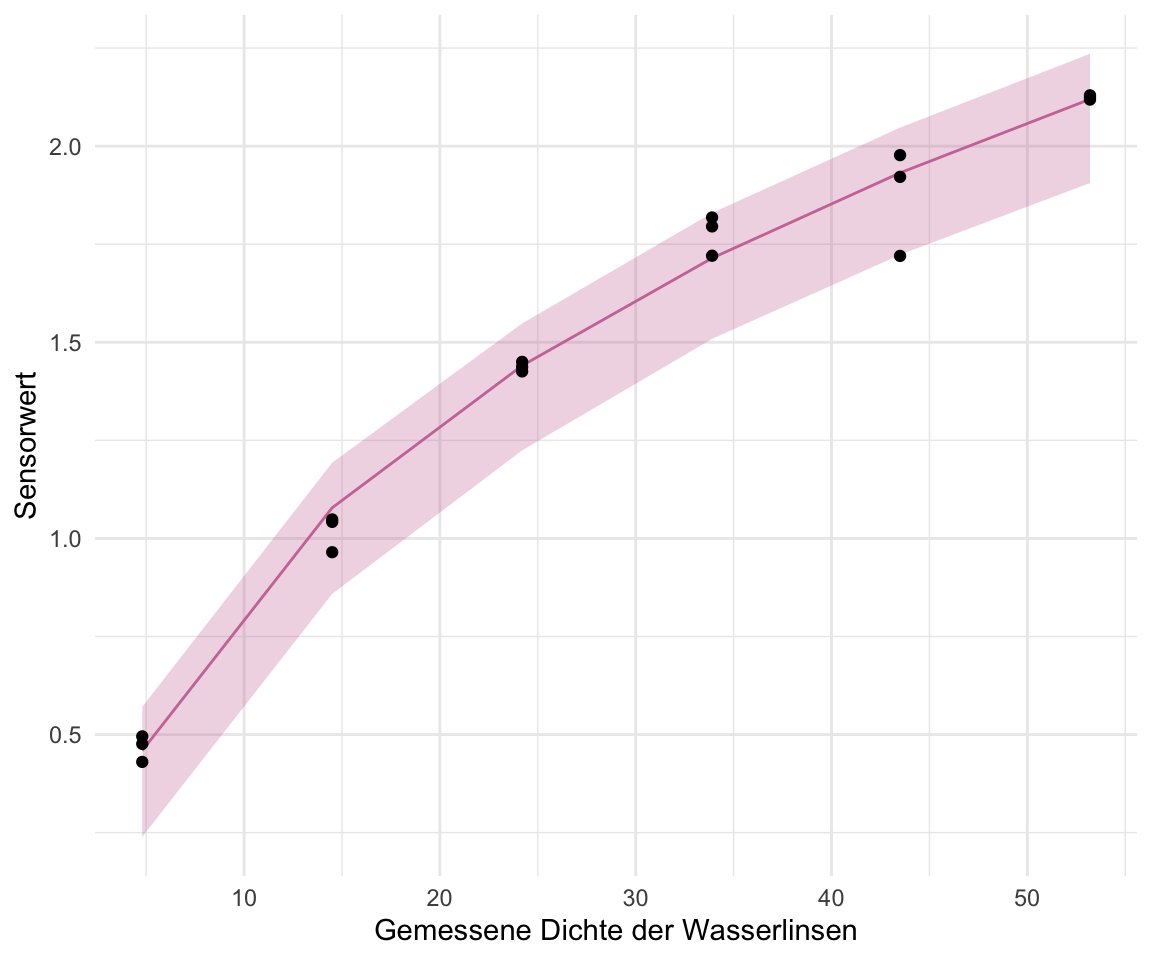
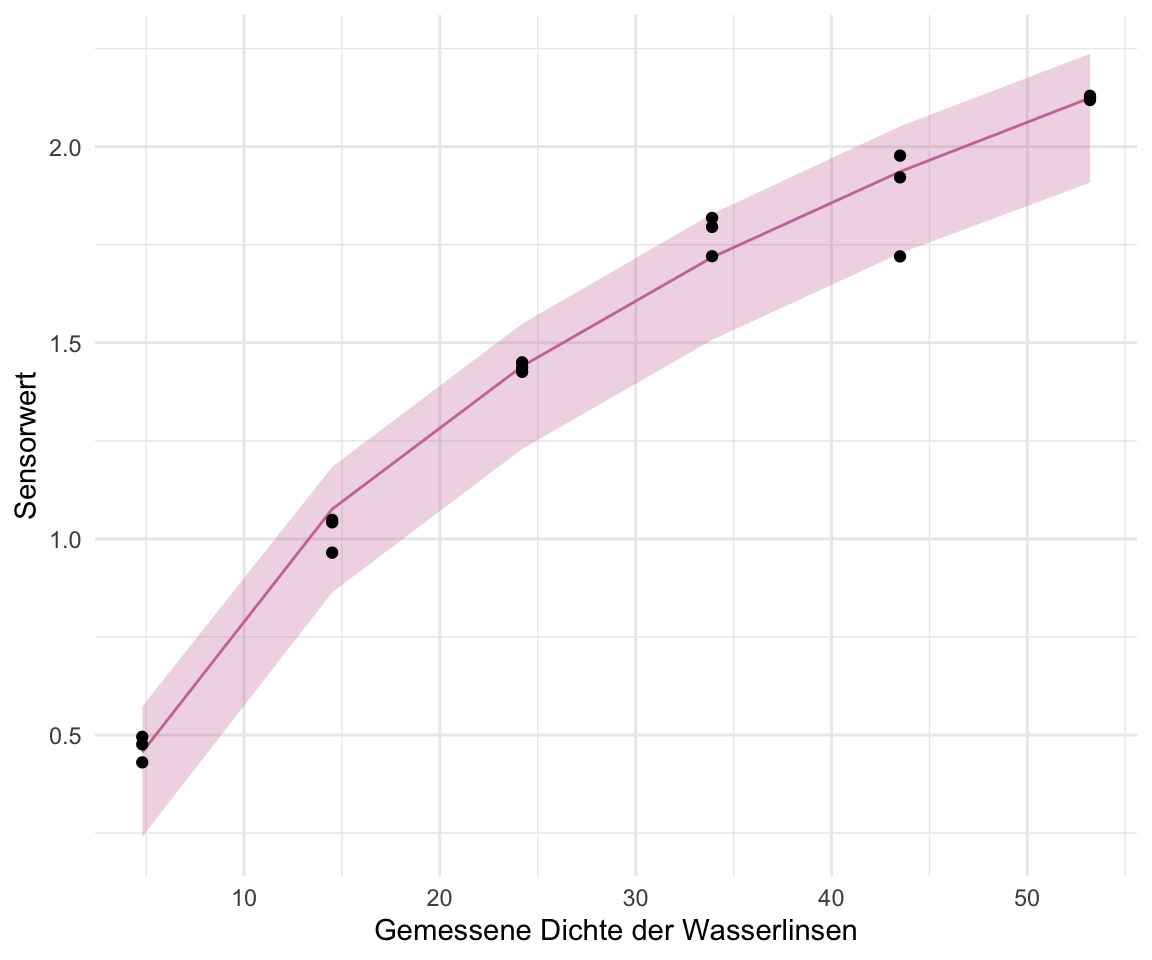
reworked literature

diff --git a/docs/literature.html b/docs/literature.html
@@ -688,14 +688,14 @@ div.csl-indent {
     <h2 id="toc-title">Inhaltsverzeichnis</h2>
    
   <ul>
-  <li><a href="#parametrische-statistik" id="toc-parametrische-statistik" class="nav-link active" data-scroll-target="#parametrische-statistik"><span class="header-section-number">2.1</span> Parametrische Statistik</a></li>
-  <li><a href="#experimental-methods-in-agriculture" id="toc-experimental-methods-in-agriculture" class="nav-link" data-scroll-target="#experimental-methods-in-agriculture"><span class="header-section-number">2.2</span> Experimental methods in agriculture</a></li>
-  <li><a href="#r-for-data-science" id="toc-r-for-data-science" class="nav-link" data-scroll-target="#r-for-data-science"><span class="header-section-number">2.3</span> R for Data Science</a></li>
-  <li><a href="#practical-statistics-for-data-scientists" id="toc-practical-statistics-for-data-scientists" class="nav-link" data-scroll-target="#practical-statistics-for-data-scientists"><span class="header-section-number">2.4</span> Practical Statistics for Data Scientists</a></li>
-  <li><a href="#advanced-data-analysis-from-an-elementary-point-of-view" id="toc-advanced-data-analysis-from-an-elementary-point-of-view" class="nav-link" data-scroll-target="#advanced-data-analysis-from-an-elementary-point-of-view"><span class="header-section-number">2.5</span> Advanced Data Analysis from an Elementary Point of View</a></li>
-  <li><a href="#big-book-of-r" id="toc-big-book-of-r" class="nav-link" data-scroll-target="#big-book-of-r"><span class="header-section-number">2.6</span> Big Book of R</a></li>
-  <li><a href="#data-science-for-agriculture-in-r" id="toc-data-science-for-agriculture-in-r" class="nav-link" data-scroll-target="#data-science-for-agriculture-in-r"><span class="header-section-number">2.7</span> Data Science for Agriculture in R</a></li>
-  <li><a href="#odds-ends" id="toc-odds-ends" class="nav-link" data-scroll-target="#odds-ends"><span class="header-section-number">2.8</span> Odds &amp; Ends</a></li>
+  <li><a href="#parametrische-statistik" id="toc-parametrische-statistik" class="nav-link active" data-scroll-target="#parametrische-statistik">Parametrische Statistik</a></li>
+  <li><a href="#experimental-methods-in-agriculture" id="toc-experimental-methods-in-agriculture" class="nav-link" data-scroll-target="#experimental-methods-in-agriculture">Experimental methods in agriculture</a></li>
+  <li><a href="#r-for-data-science" id="toc-r-for-data-science" class="nav-link" data-scroll-target="#r-for-data-science">R for Data Science</a></li>
+  <li><a href="#practical-statistics-for-data-scientists" id="toc-practical-statistics-for-data-scientists" class="nav-link" data-scroll-target="#practical-statistics-for-data-scientists">Practical Statistics for Data Scientists</a></li>
+  <li><a href="#advanced-data-analysis-from-an-elementary-point-of-view" id="toc-advanced-data-analysis-from-an-elementary-point-of-view" class="nav-link" data-scroll-target="#advanced-data-analysis-from-an-elementary-point-of-view">Advanced Data Analysis from an Elementary Point of View</a></li>
+  <li><a href="#big-book-of-r" id="toc-big-book-of-r" class="nav-link" data-scroll-target="#big-book-of-r">Big Book of R</a></li>
+  <li><a href="#data-science-for-agriculture-in-r" id="toc-data-science-for-agriculture-in-r" class="nav-link" data-scroll-target="#data-science-for-agriculture-in-r">Data Science for Agriculture in R</a></li>
+  <li><a href="#odds-ends" id="toc-odds-ends" class="nav-link" data-scroll-target="#odds-ends">Odds &amp; Ends</a></li>
   <li><a href="#referenzen" id="toc-referenzen" class="nav-link" data-scroll-target="#referenzen">Referenzen</a></li>
   </ul>
 </nav>
@@ -720,7 +720,7 @@ div.csl-indent {
 
 </header>
 
-<p><em>Letzte Änderung am 09. January 2024 um 10:09:59</em></p>
+<p><em>Letzte Änderung am 09. January 2024 um 20:42:57</em></p>
 <blockquote class="blockquote">
 <p><em>“Stealing from one author is plagiarism; from many authors, research.” — Walter Moers, The City of Dreaming Books</em></p>
 </blockquote>
@@ -735,7 +735,7 @@ Bloggern, denen ich folge…
 </div>
 </div>
 <div class="callout-body-container callout-body">
-<p>Und was lese ich so? Ich folge folgenden Bloggern und schaue immer mal was die so machen, damit meine Fähigkeiten nicht einrosten. Schöne Sachen machen die dort!</p>
+<p>Und was lese ich so? Ich folge einigen Bloggern in der unteren Liste. Da schaue ich immer mal was die so machen, damit meine Fähigkeiten nicht einrosten. Schöne Sachen machen die dort! Auch lerne ich dort immer mal wieder neue R Tricks, die dann hier im Buch erscheinen.</p>
 <ul>
 <li><a href="https://www.brodrigues.co/">Econometrics and Free Software by Bruno Rodrigues</a></li>
 <li><a href="https://daniellakens.blogspot.com/">The 20% Statistician by Daniel Lakens</a></li>
@@ -748,8 +748,8 @@ Bloggern, denen ich folge…
 </div>
 </div>
 <p>Beginnen wir jetzt aber einmal uns die verschiedenen Bücher anzuschauen, die ich empfehlen kann, wenn du noch mehr zum Thema Bio Data Science lesen möchtest.</p>
-<section id="parametrische-statistik" class="level2" data-number="2.1">
-<h2 data-number="2.1" class="anchored" data-anchor-id="parametrische-statistik"><span class="header-section-number">2.1</span> Parametrische Statistik</h2>
+<section id="parametrische-statistik" class="level2 unnumbered">
+<h2 class="unnumbered anchored" data-anchor-id="parametrische-statistik">Parametrische Statistik</h2>
 <div class="quarto-figure quarto-figure-center">
 <figure class="figure">
 <p><img src="images/books/dormann.jpg" class="img-fluid figure-img" width="200"></p>
@@ -757,8 +757,8 @@ Bloggern, denen ich folge…
 </div>
 <p>Dormann <span class="citation" data-cites="dormann2013parametrische">(<a href="#ref-dormann2013parametrische" role="doc-biblioref">2013</a>)</span> liefert ein tolles deutsches Buch für die Vertiefung in die Statistik. Insbesondere wenn du wissenschaftlich Arbeiten willst weit über die Bachelorarbeit hinaus. Dormann baut in seinem Buch eine hervorragende Grundlage auf. Das Buch ist an der Hochschule Osnabrück kostenlos <a href="https://link.springer.com/book/10.1007/978-3-662-54684-0">über den Link</a> zu erhalten. Oder aber das Buch <a href="https://www.biometrie.uni-freiburg.de/mitarbeiter/dormann/deutschstatswork.pdf">Angewandte Statistik für die biologischen Wissenschaften</a> was ebenfalls von <span class="citation" data-cites="dormann2009angewandte">Dormann und Kühn (<a href="#ref-dormann2009angewandte" role="doc-biblioref">2009</a>)</span> geschrieben wurde. Beide Bücher überschneiden sich etwas, aber das ist eigentlich nicht so das Problem.</p>
 </section>
-<section id="experimental-methods-in-agriculture" class="level2" data-number="2.2">
-<h2 data-number="2.2" class="anchored" data-anchor-id="experimental-methods-in-agriculture"><span class="header-section-number">2.2</span> Experimental methods in agriculture</h2>
+<section id="experimental-methods-in-agriculture" class="level2 unnumbered">
+<h2 class="unnumbered anchored" data-anchor-id="experimental-methods-in-agriculture">Experimental methods in agriculture</h2>
 <div class="quarto-figure quarto-figure-center">
 <figure class="figure">
 <p><img src="images/books/cover_stat_for_biology.jpeg" class="img-fluid figure-img" width="200"></p>
@@ -766,8 +766,8 @@ Bloggern, denen ich folge…
 </div>
 <p>Onofri und Sacco (2021) haben das Buch <a href="https://www.statforbiology.com/_statbookeng/">Experimental methods in agriculture</a> geschrieben. Wir werden auf dieses englische Buch ab und zu mal verweisen. Insbesondere der Einleitungstext zur Wissenschaft und dem Design von Experiementen ist immer wieder lesenswert. Spätere Teile des Buches sind etwas mathematischer und nicht für den Einstieg unbedingt geeignet. Aber schaue es dir selber an.</p>
 </section>
-<section id="r-for-data-science" class="level2" data-number="2.3">
-<h2 data-number="2.3" class="anchored" data-anchor-id="r-for-data-science"><span class="header-section-number">2.3</span> R for Data Science</h2>
+<section id="r-for-data-science" class="level2 unnumbered">
+<h2 class="unnumbered anchored" data-anchor-id="r-for-data-science">R for Data Science</h2>
 <div class="quarto-figure quarto-figure-center">
 <figure class="figure">
 <p><img src="images/books/hadley.png" class="img-fluid figure-img" width="200"></p>
@@ -776,8 +776,8 @@ Bloggern, denen ich folge…
 <p>Wickham <span class="citation" data-cites="wickham2016r">(<a href="#ref-wickham2016r" role="doc-biblioref">2016</a>)</span> ist die Grundlage für die R Programmierung. Das Material von Wickahm findet sich kostenlos online unter <a href="https://r4ds.hadley.nz/" class="uri">https://r4ds.hadley.nz/</a> und <a href="https://www.tidyverse.org/" class="uri">https://www.tidyverse.org/</a>. Wir werden uns hauptsächlich mit R wie es Wickham lehrt beschäftigen. Somit ist Wickham unsere Grundlage für R.</p>
 <p>Mit dem Buch <a href="">Moderne Datenanalyse mit R – Daten einlesen, aufbereiten, visualisieren, modellieren und kommunizieren</a> von <span class="citation" data-cites="sauer2019moderne">Sauer (<a href="#ref-sauer2019moderne" role="doc-biblioref">2019</a>)</span> steht noch eine freies, deutsches Buch zu Verfügung. Das Buch ist eine Alternative, wenn es eben dann noch Deutsch als Literatur sein soll.</p>
 </section>
-<section id="practical-statistics-for-data-scientists" class="level2" data-number="2.4">
-<h2 data-number="2.4" class="anchored" data-anchor-id="practical-statistics-for-data-scientists"><span class="header-section-number">2.4</span> Practical Statistics for Data Scientists</h2>
+<section id="practical-statistics-for-data-scientists" class="level2 unnumbered">
+<h2 class="unnumbered anchored" data-anchor-id="practical-statistics-for-data-scientists">Practical Statistics for Data Scientists</h2>
 <div class="quarto-figure quarto-figure-center">
 <figure class="figure">
 <p><img src="images/books/practical.jpg" class="img-fluid figure-img" width="200"></p>
@@ -785,30 +785,20 @@ Bloggern, denen ich folge…
 </div>
 <p>Bruce <span class="citation" data-cites="bruce2020practical">(<a href="#ref-bruce2020practical" role="doc-biblioref">2020</a>)</span> schreibt ein Buch für den Anwender. Ohne Vorkenntnisse ist das Buch vermutlich etwas schwer zu lesen. Dafür bietet das Buch aber <em>nach</em> einem Statistikkurs sehr gute Anknüpfungspunkte Richtung maschinelles Lernen und somit der Klassifikation. Das Buch ist auch hier in der <a href="https://ebookcentral.proquest.com/lib/hs-osnabrueck/detail.action?docID=6173908">englischen Version</a> und hier in der <a href="http://www.content-select.com/index.php?id=bib_view&amp;ean=9783960104674">deutschen Version</a> zu erhalten. <em>Beide Links benötigen den Zugang über die Hochschule Osnabrück</em>.</p>
 </section>
-<section id="advanced-data-analysis-from-an-elementary-point-of-view" class="level2" data-number="2.5">
-<h2 data-number="2.5" class="anchored" data-anchor-id="advanced-data-analysis-from-an-elementary-point-of-view"><span class="header-section-number">2.5</span> Advanced Data Analysis from an Elementary Point of View</h2>
+<section id="advanced-data-analysis-from-an-elementary-point-of-view" class="level2 unnumbered">
+<h2 class="unnumbered anchored" data-anchor-id="advanced-data-analysis-from-an-elementary-point-of-view">Advanced Data Analysis from an Elementary Point of View</h2>
 <p>Das sehr lange Skript <a href="https://www.stat.cmu.edu/~cshalizi/ADAfaEPoV/">Advanced Data Analysis from an Elementary Point of View</a> von Cosma Rohilla Shalizi gibt nochmal mehr Einblicke in die Welt der Statistik. Wie auch bei mir ist bei <a href="https://www.stat.cmu.edu/~cshalizi/">Cosma Shalizi</a> alles immer größer geworden und mehr angewachsen. Wenn du mehr über Statistik lesen willst, ist es eine Goldgrube an Skripten und Ideen.</p>
 </section>
-<section id="big-book-of-r" class="level2" data-number="2.6">
-<h2 data-number="2.6" class="anchored" data-anchor-id="big-book-of-r"><span class="header-section-number">2.6</span> Big Book of R</h2>
+<section id="big-book-of-r" class="level2 unnumbered">
+<h2 class="unnumbered anchored" data-anchor-id="big-book-of-r">Big Book of R</h2>
 <p>Das <a href="https://www.bigbookofr.com/">Big Book of R</a> beinhaltet über 300 (!) frei verfügbare Bücher, die sich mit R und entsprechenden Themen beschäftigen. Wie der Autor oder Sammler des Buches so schön schreibt, du brauchts nur noch diesen Link, du findest hier alles.</p>
 </section>
-<section id="data-science-for-agriculture-in-r" class="level2" data-number="2.7">
-<h2 data-number="2.7" class="anchored" data-anchor-id="data-science-for-agriculture-in-r"><span class="header-section-number">2.7</span> Data Science for Agriculture in R</h2>
-<div class="quarto-figure quarto-figure-center">
-<figure class="figure">
-<p><img src="images/books/dsfair.png" class="img-fluid figure-img"></p>
-</figure>
-</div>
+<section id="data-science-for-agriculture-in-r" class="level2 unnumbered">
+<h2 class="unnumbered anchored" data-anchor-id="data-science-for-agriculture-in-r">Data Science for Agriculture in R</h2>
 <p>Schmidt liefert auf der Webseite <a href="https://schmidtpaul.github.io/DSFAIR/index.html" class="uri">https://schmidtpaul.github.io/DSFAIR/index.html</a> eine tolle Sammlung an experimentellen Designs bzw. Versuchsanlagen samt der Auswertung in R. Ohne Vorkenntnisse schwer zu verstehen. Sollte aber nach dem Besuch eines meiner Module dann möglich sein. Gerne hier auch mich fragen, dann können wir gemeinsam das passende Design raussuchen und besprechen.</p>
 </section>
-<section id="odds-ends" class="level2" data-number="2.8">
-<h2 data-number="2.8" class="anchored" data-anchor-id="odds-ends"><span class="header-section-number">2.8</span> Odds &amp; Ends</h2>
-<div class="quarto-figure quarto-figure-center">
-<figure class="figure">
-<p><img src="images/books/odds_and_ends.PNG" class="img-fluid figure-img"></p>
-</figure>
-</div>
+<section id="odds-ends" class="level2 unnumbered">
+<h2 class="unnumbered anchored" data-anchor-id="odds-ends">Odds &amp; Ends</h2>
 <p>Am Ende dann noch eine Mathebuch von Weisberg zu finden unter <a href="https://jonathanweisberg.org/vip/" class="uri">https://jonathanweisberg.org/vip/</a>. Eigentlich eher ein Buch über Wahrscheinlichkeiten und wenn ein Buch am Ende stehen muss, dann ist es dieses Buch. Ich finde es sehr spannend zu lesen, aber das ist dann vermutlich <em>special intrest</em>.</p>
 </section>
 <section id="referenzen" class="level2 unnumbered">

diff --git a/docs/stat-modeling-non-linear.html b/docs/stat-modeling-non-linear.html
@@ -761,7 +761,7 @@ div.csl-indent {
 
 </header>
 
-<p><em>Letzte Änderung am 09. January 2024 um 20:33:12</em></p>
+<p><em>Letzte Änderung am 09. January 2024 um 20:37:35</em></p>
 <blockquote class="blockquote">
 <p><em>“And you may ask yourself; Well… How did I get here?; And you may ask yourself; ‘How do I work this?’” — Talking Heads - Once in a Lifetime</em></p>
 </blockquote>
@@ -943,23 +943,23 @@ Zerforschen: Nicht-lineare Regression mit Zielbereich
 <dl class="code-annotation-container-hidden code-annotation-container-grid">
 <dt data-target-cell="annotated-cell-7" data-target-annotation="1">1</dt>
 <dd>
-<span data-code-lines="4,5" data-code-annotation="1" data-code-cell="annotated-cell-7">Hier werden die beiden nicht-linearen Kurven gezeichnet.</span>
+<span data-code-cell="annotated-cell-7" data-code-lines="4,5" data-code-annotation="1">Hier werden die beiden nicht-linearen Kurven gezeichnet.</span>
 </dd>
 <dt data-target-cell="annotated-cell-7" data-target-annotation="2">2</dt>
 <dd>
-<span data-code-lines="7,8" data-code-annotation="2" data-code-cell="annotated-cell-7">Hier werden die Fehlerbalken erstellt.</span>
+<span data-code-cell="annotated-cell-7" data-code-lines="7,8" data-code-annotation="2">Hier werden die Fehlerbalken erstellt.</span>
 </dd>
 <dt data-target-cell="annotated-cell-7" data-target-annotation="3">3</dt>
 <dd>
-<span data-code-lines="10" data-code-annotation="3" data-code-cell="annotated-cell-7">Hier passen wir die Labels in der Legende entsprechend an.</span>
+<span data-code-cell="annotated-cell-7" data-code-lines="10" data-code-annotation="3">Hier passen wir die Labels in der Legende entsprechend an.</span>
 </dd>
 <dt data-target-cell="annotated-cell-7" data-target-annotation="4">4</dt>
 <dd>
-<span data-code-lines="14,15,16,17,18,19" data-code-annotation="4" data-code-cell="annotated-cell-7">Hier schreiben wir die Regressionsgleichung für die jeweiligen Kurven hin.</span>
+<span data-code-cell="annotated-cell-7" data-code-lines="14,15,16,17,18,19" data-code-annotation="4">Hier schreiben wir die Regressionsgleichung für die jeweiligen Kurven hin.</span>
 </dd>
 <dt data-target-cell="annotated-cell-7" data-target-annotation="5">5</dt>
 <dd>
-<span data-code-lines="20,21,22,23,24,25,26,27,28" data-code-annotation="5" data-code-cell="annotated-cell-7">Hier produzieren wir den blauen Bereich plus den Pfeil sowie die Beschreibung.</span>
+<span data-code-cell="annotated-cell-7" data-code-lines="20,21,22,23,24,25,26,27,28" data-code-annotation="5">Hier produzieren wir den blauen Bereich plus den Pfeil sowie die Beschreibung.</span>
 </dd>
 </dl>
 </div>
@@ -1384,7 +1384,7 @@ Achieved convergence tolerance: 1.176e-06</code></pre>
 92.198  2.178 
  residual sum-of-squares: 4725115
 
-Number of iterations to convergence: 9 
+Number of iterations to convergence: 15 
 Achieved convergence tolerance: 1.49e-08</code></pre>
 </div>
 </div>
@@ -1588,11 +1588,11 @@ sensor = -1.1468 + duckweeds\_density^{0.2975}
 <pre><code># A tibble: 6 × 4
   median x2_5_percent x97_5_percent duckweeds_density
    &lt;dbl&gt;        &lt;dbl&gt;         &lt;dbl&gt;             &lt;dbl&gt;
-1  0.459        0.239         0.571               4.8
-2  1.08         0.859         1.19               14.5
-3  1.44         1.22          1.55               24.2
-4  1.71         1.51          1.83               33.9
-5  1.93         1.72          2.05               43.5
+1  0.456        0.240         0.573               4.8
+2  1.08         0.864         1.18               14.5
+3  1.44         1.23          1.55               24.2
+4  1.72         1.51          1.83               33.9
+5  1.94         1.73          2.05               43.5
 6  2.12         1.91          2.24               53.2</code></pre>
 </div>
 </div>
@@ -1600,11 +1600,11 @@ sensor = -1.1468 + duckweeds\_density^{0.2975}
 <div class="cell">
 <div class="sourceCode cell-code" id="cb58"><pre class="sourceCode r code-with-copy"><code class="sourceCode r"><span id="cb58-1"><a href="#cb58-1" aria-hidden="true" tabindex="-1"></a><span class="fu">with</span>(pred_plim_tbl, x2_5_percent <span class="sc">-</span> median) <span class="sc">%&gt;%</span> <span class="fu">mean</span>()</span></code><button title="In die Zwischenablage kopieren" class="code-copy-button"><i class="bi"></i></button></pre></div>
 <div class="cell-output cell-output-stdout">
-<pre><code>[1] -0.2139859</code></pre>
+<pre><code>[1] -0.2123556</code></pre>
 </div>
 <div class="sourceCode cell-code" id="cb60"><pre class="sourceCode r code-with-copy"><code class="sourceCode r"><span id="cb60-1"><a href="#cb60-1" aria-hidden="true" tabindex="-1"></a><span class="fu">with</span>(pred_plim_tbl, x97_5_percent <span class="sc">-</span> median) <span class="sc">%&gt;%</span> <span class="fu">mean</span>()</span></code><button title="In die Zwischenablage kopieren" class="code-copy-button"><i class="bi"></i></button></pre></div>
 <div class="cell-output cell-output-stdout">
-<pre><code>[1] 0.1134446</code></pre>
+<pre><code>[1] 0.1119241</code></pre>
 </div>
 </div>
 <p>Damit hätten wir dann für die 2.5% und 97.% Grenzen des Vorhersageintervalls folgende mathematische Formel. Ich ersetze hier einmal <span class="math inline">\(duckweeds\_density\)</span> durch <span class="math inline">\(x\)</span> um die Formel etwas aufzuräumen und zu kürzen.</p>
@@ -1643,7 +1643,7 @@ sensor = -1.1468 + duckweeds\_density^{0.2975}
 <pre><code># A tibble: 6 × 4
   median x2_5_percent x97_5_percent duckweeds_density
    &lt;dbl&gt;        &lt;dbl&gt;         &lt;dbl&gt;             &lt;dbl&gt;
-1  0.452        0.380         0.501               4.8
+1  0.450        0.381         0.505               4.8
 2  1.07         1.03          1.10               14.5
 3  1.44         1.40          1.46               24.2
 4  1.71         1.67          1.74               33.9
@@ -1655,11 +1655,11 @@ sensor = -1.1468 + duckweeds\_density^{0.2975}
 <div class="cell">
 <div class="sourceCode cell-code" id="cb65"><pre class="sourceCode r code-with-copy"><code class="sourceCode r"><span id="cb65-1"><a href="#cb65-1" aria-hidden="true" tabindex="-1"></a><span class="fu">with</span>(pred_clim_tbl, x2_5_percent <span class="sc">-</span> median) <span class="sc">%&gt;%</span> <span class="fu">mean</span>()</span></code><button title="In die Zwischenablage kopieren" class="code-copy-button"><i class="bi"></i></button></pre></div>
 <div class="cell-output cell-output-stdout">
-<pre><code>[1] -0.0485601</code></pre>
+<pre><code>[1] -0.04830924</code></pre>
 </div>
 <div class="sourceCode cell-code" id="cb67"><pre class="sourceCode r code-with-copy"><code class="sourceCode r"><span id="cb67-1"><a href="#cb67-1" aria-hidden="true" tabindex="-1"></a><span class="fu">with</span>(pred_clim_tbl, x97_5_percent <span class="sc">-</span> median) <span class="sc">%&gt;%</span> <span class="fu">mean</span>()</span></code><button title="In die Zwischenablage kopieren" class="code-copy-button"><i class="bi"></i></button></pre></div>
 <div class="cell-output cell-output-stdout">
-<pre><code>[1] 0.03517752</code></pre>
+<pre><code>[1] 0.03621924</code></pre>
 </div>
 </div>
 <p>Damit hätten wir dann für die 2.5% und 97.% Grenzen des Konfidenzintervalls folgende mathematische Formel. Ich ersetze hier einmal <span class="math inline">\(duckweeds\_density\)</span> durch <span class="math inline">\(x\)</span> um die Formel etwas aufzuräumen und zu kürzen.</p>
@@ -1915,7 +1915,7 @@ Number of Fisher Scoring iterations: 2</code></pre>
 <div class="sourceCode cell-code" id="cb86"><pre class="sourceCode r code-with-copy"><code class="sourceCode r"><span id="cb86-1"><a href="#cb86-1" aria-hidden="true" tabindex="-1"></a>mfp_fit<span class="sc">$</span>formula</span></code><button title="In die Zwischenablage kopieren" class="code-copy-button"><i class="bi"></i></button></pre></div>
 <div class="cell-output cell-output-stdout">
 <pre><code>weight ~ I((age/10)^2)
-&lt;environment: 0x136944240&gt;</code></pre>
+&lt;environment: 0x147c2fac0&gt;</code></pre>
 </div>
 </div>
 <p>Nun haben wir erstmal die Informationen über das Alter und die Potenz <span class="math inline">\(a\)</span> und wie diese beiden miteinander zusammengehören. Jetzt fehlen aber noch die Koeffizienten für die Steigung und den y-Achsenabschnitt. Die haben wir auch oben in der <code>summary()</code> gesehen, aber wir können uns die Werte auch separat anzeigen lassen.</p>

diff --git a/docs/stat-modeling-beta.html b/docs/stat-modeling-beta.html
@@ -760,7 +760,7 @@ div.csl-indent {
 
 </header>
 
-<p><em>Letzte Änderung am 09. January 2024 um 10:00:15</em></p>
+<p><em>Letzte Änderung am 09. January 2024 um 20:37:54</em></p>
 <div class="quarto-figure quarto-figure-center">
 <figure class="figure">
 <p><img src="images/caution.png" class="img-fluid figure-img" style="width:50.0%"></p>
@@ -1513,7 +1513,7 @@ proportion = 2.268 - e^{0.0101 \cdot snow\_height}
 8.888e-01 7.189e-10 4.914e+00 
  residual sum-of-squares: 0.1778
 
-Number of iterations to convergence: 94 
+Number of iterations to convergence: 53 
 Achieved convergence tolerance: 1.49e-08</code></pre>
 </div>
 </div>

diff --git a/docs/index.html b/docs/index.html
@@ -703,7 +703,7 @@ ul.task-list li input[type="checkbox"] {
     <div>
     <div class="quarto-title-meta-heading">Veröffentlichungsdatum</div>
     <div class="quarto-title-meta-contents">
-      <p class="date">6. Januar 2024</p>
+      <p class="date">10. Januar 2024</p>
     </div>
   </div>
   
